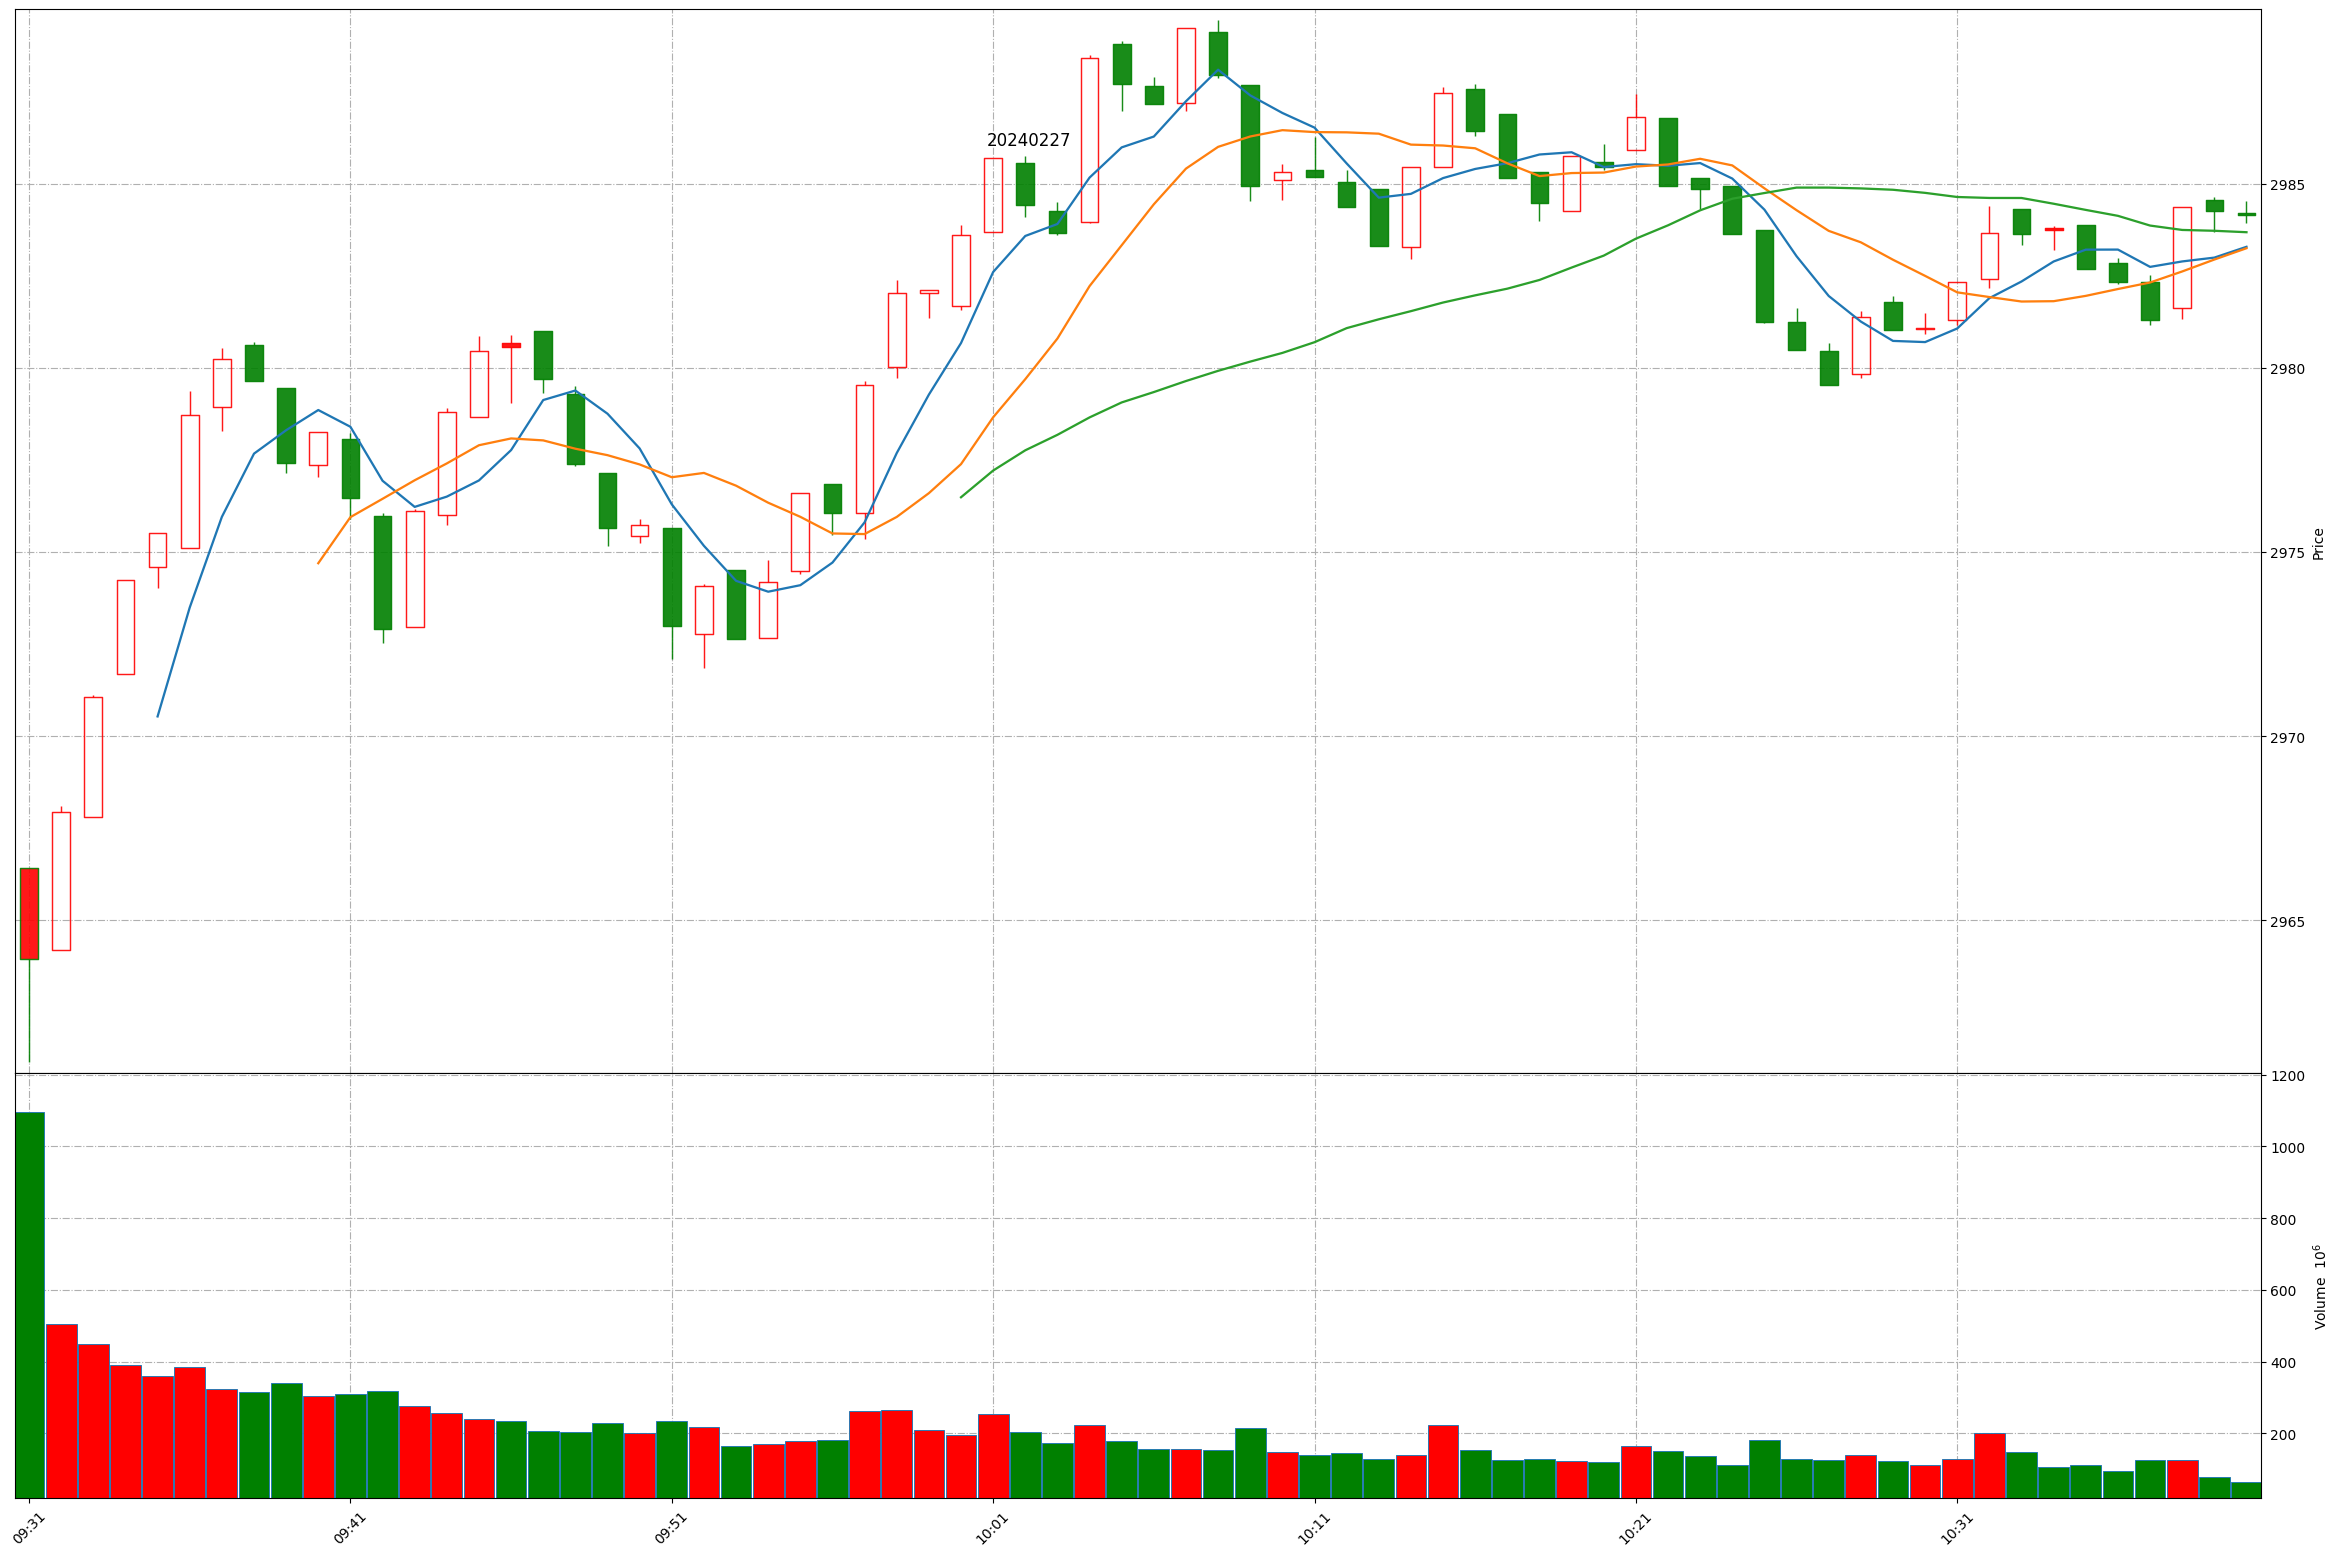
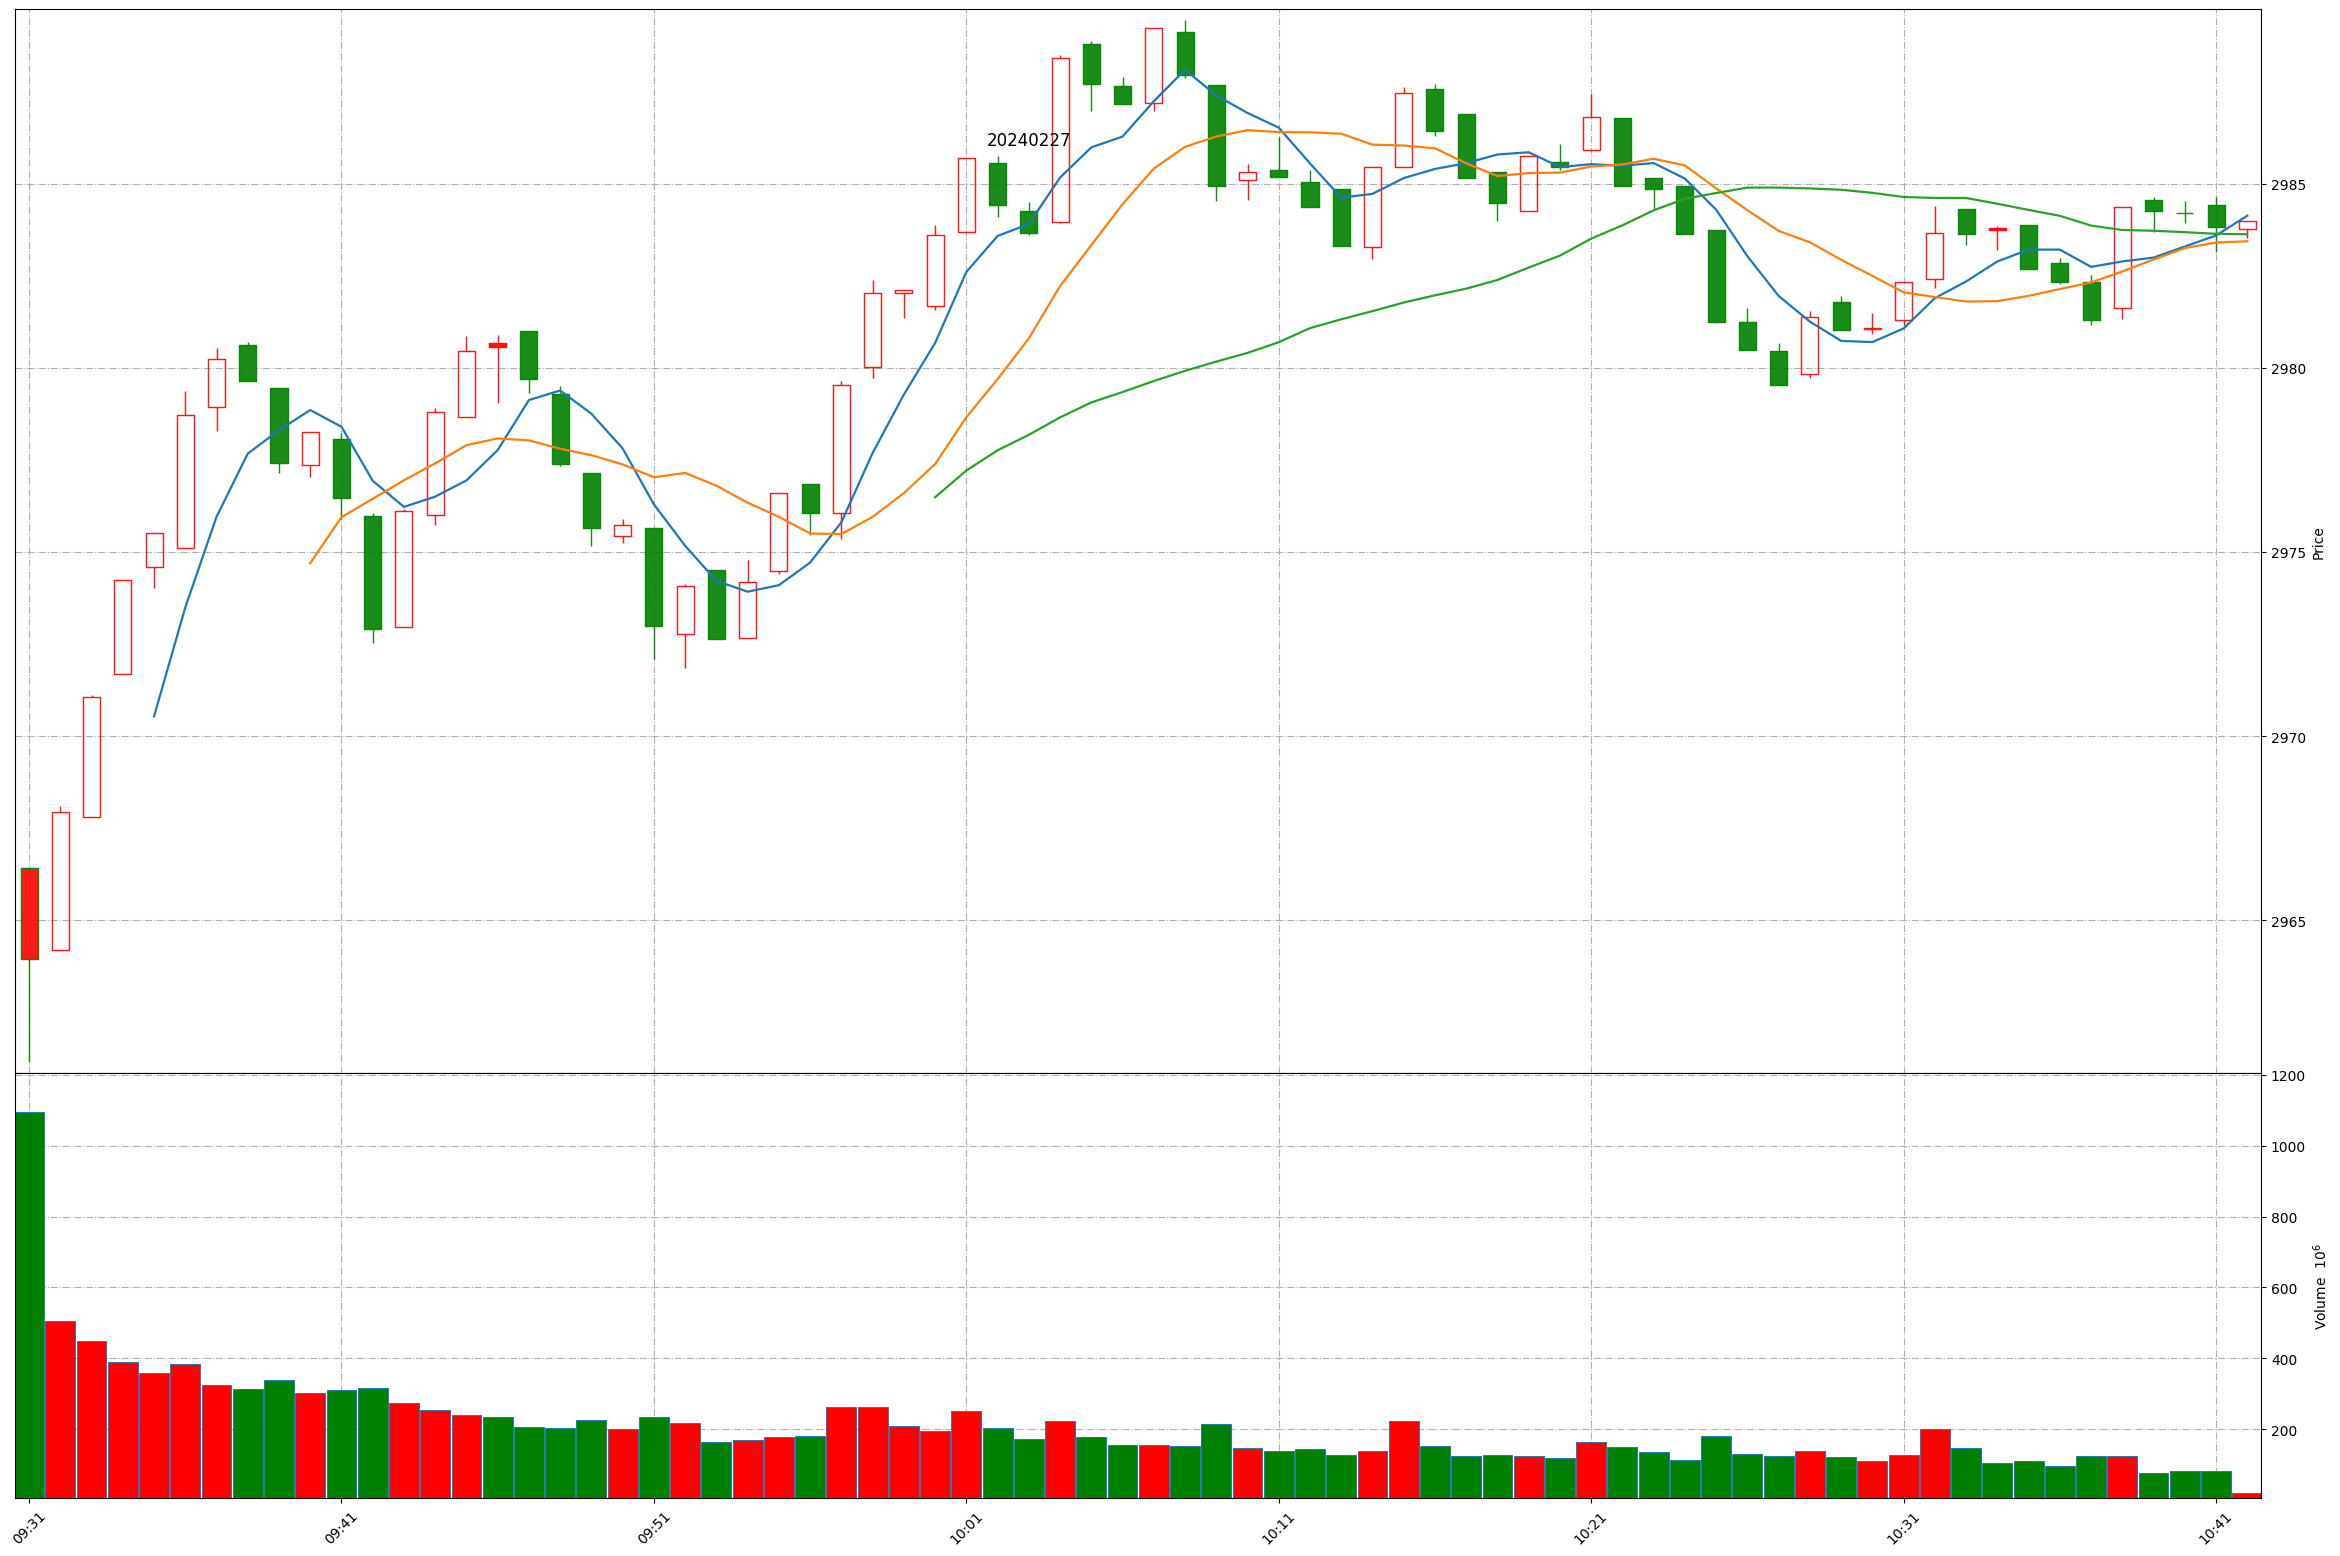
Github action update at 2024-02-27 10:41:35.

diff --git a/README.md b/README.md
@@ -1,11 +1,11 @@
 
 # Daily-A-share-market-quotes 每日 A 股指数（5min 更新）- 20240227
 
-### 上证指数 20240227 10:40
+### 上证指数 20240227 10:41
 ![](./fig/2024/2/20240227-sh000001.png)
 
-### 深证成指 20240227 10:40
+### 深证成指 20240227 10:41
 ![](./fig/2024/2/20240227-sz399001.png)
 
-### 北证50 20240227 10:40
+### 北证50 20240227 10:41
 ![](./fig/2024/2/20240227-bj899050.png)
